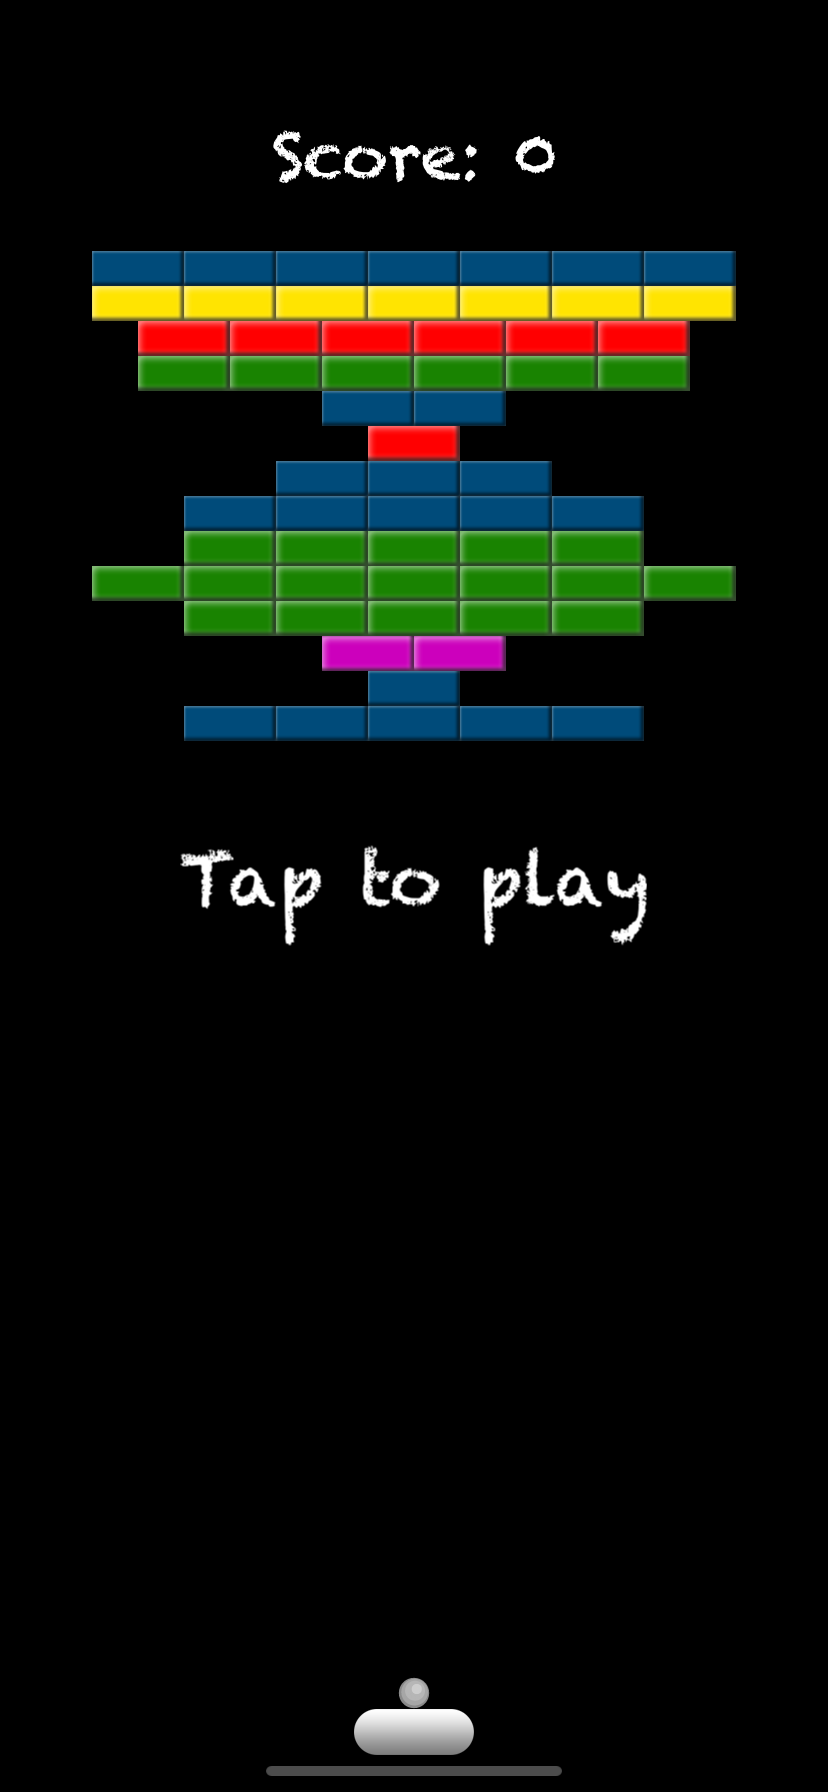
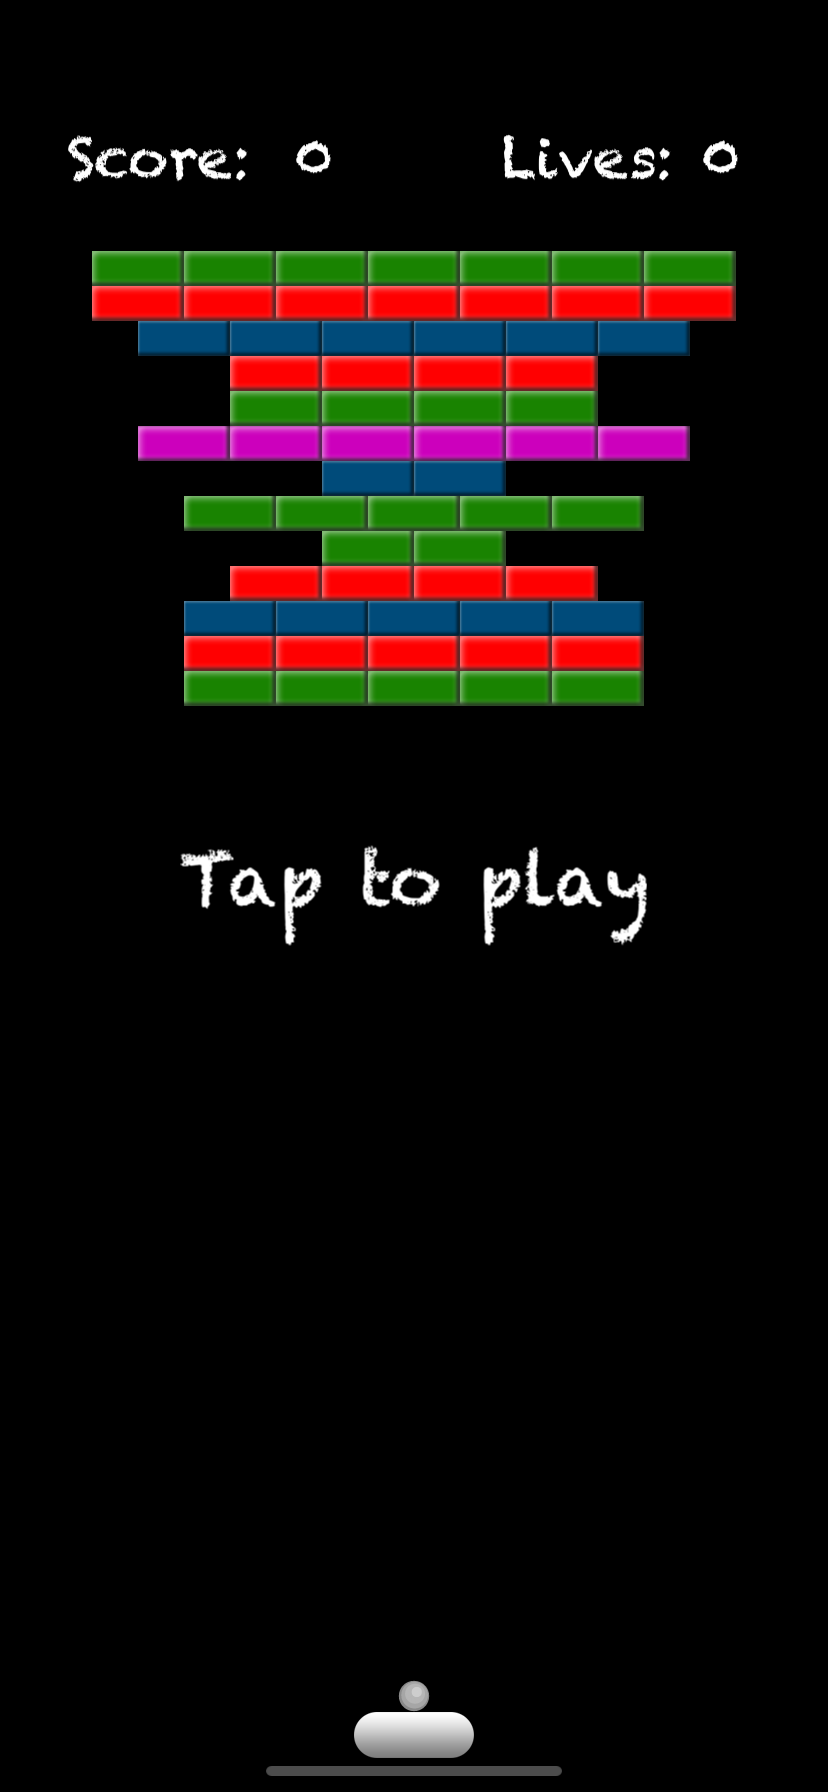
added 5 power ups added lives counter at the top

Changed region(s): [[0.0906, 0.0625, 0.9058, 0.4375], [0.8454, 0.0625, 0.9058, 0.0938], [0.4831, 0.9375, 0.5133, 0.9688]]

diff --git a/breakout/GameScene.swift b/breakout/GameScene.swift
@@ -11,22 +11,49 @@ import GameplayKit
 
 let BallCategoryName = "ball"
 let PaddleCategoryName = "paddle"
-let BlockCategoryName = "block"
+let BlockBlueCategoryName = "blockBlue"
+let BlockRedCategoryName = "blockRed"
+let BlockGreenCategoryName = "blockGreen"
+let BlockYellowCategoryName = "blockYellow"
+let BlockPurpleCategoryName = "blockPurple"
 let GameMessageName = "gameMessage"
 let ScoreLabelName = "scoreLabel"
+let PowerUpLName = "powerUpLength"
+let PowerDownLName = "powerDownLength"
+let PowerUpSName = "powerUpSpeed"
+let PowerDownSName = "powerDownSpeed"
+let PowerUpLifeName = "powerUpLife"
 
 let BallCategory   : UInt32 = 0x1 << 0
 let BottomCategory : UInt32 = 0x1 << 1
 let BlockCategory  : UInt32 = 0x1 << 2
 let PaddleCategory : UInt32 = 0x1 << 3
-let BorderCategory : UInt32 = 0x1 << 4
+let PowerUpCategory : UInt32 = 0x1 << 4
+let BorderCategory : UInt32 = 0x1 << 5
 
 class GameScene: SKScene, SKPhysicsContactDelegate {
+    let scoreText = SKLabelNode(fontNamed: "Chalkduster")
     let scoreLabel = SKLabelNode(fontNamed: "Chalkduster")
+    let livesLabel = SKLabelNode(fontNamed: "Chalkduster")
+    
+    var isInvul: Bool = false
+    var isInvulTime: TimeInterval = 0
+    
+    var lives: Int = 0 {
+        didSet {
+            livesLabel.text = "Lives: " + String(lives)
+        }
+    }
     
     var score: Int = 0 {
         didSet {
-            scoreLabel.text = "Score: " + String(score)
+            if score > 1000 {
+                scoreLabel.position = CGPoint(x: (frame.width / 4) * 2 - 30, y: frame.height * 0.9)
+                scoreLabel.text = String(score)
+            } else {
+                scoreLabel.position = CGPoint(x: (frame.width / 4) * 2 - 30, y: frame.height * 0.9)
+                scoreLabel.text = String(score)
+            }
         }
     }
     
@@ -43,6 +70,21 @@ class GameScene: SKScene, SKPhysicsContactDelegate {
         }
     }
     
+    func getColor() -> String {
+        let randomNumber = Int.random(in: 1...100)
+        if randomNumber <= 20 {
+            return "blockBlue"
+        } else if randomNumber >= 21 && randomNumber <= 40{
+            return "blockRed"
+        } else if randomNumber >= 41 && randomNumber <= 60{
+            return "blockGreen"
+        } else if randomNumber >= 61 && randomNumber <= 80 {
+            return "blockYellow"
+        } else {
+            return "blockPurple"
+        }
+    }
+    
     override func didMove(to view: SKView) {
         let borderBody = SKPhysicsBody(edgeLoopFrom: self.frame)
         borderBody.categoryBitMask = BorderCategory
@@ -52,22 +94,37 @@ class GameScene: SKScene, SKPhysicsContactDelegate {
         physicsWorld.gravity = CGVector(dx: 0.0, dy: 0.0)
         physicsWorld.contactDelegate = self
         
-        scoreLabel.text = "Score: " + String(score)
-        scoreLabel.position = CGPoint(x: frame.midX, y: 806)
+        scoreText.text = "Score: "
+        scoreText.fontSize = 28
+        scoreText.position = CGPoint(x: (frame.width / 4) - 25, y: frame.height * 0.9)
+        addChild(scoreText)
+        
+        scoreLabel.text = String(score)
+        scoreLabel.fontSize = 28
+        scoreLabel.position = CGPoint(x: (frame.width / 4) * 2 - 50, y: frame.height * 0.9)
         addChild(scoreLabel)
+        
+        livesLabel.text = "Lives: " + String(lives)
+        livesLabel.fontSize = 28
+        livesLabel.position = CGPoint(x: (frame.width / 4) * 3, y: frame.height * 0.9)
+        addChild(livesLabel)
         
         let ball = childNode(withName: BallCategoryName) as! SKSpriteNode
         ball.physicsBody!.categoryBitMask = BallCategory
         ball.physicsBody!.contactTestBitMask = BottomCategory | BlockCategory
+        ball.physicsBody!.collisionBitMask = 46
+        ball.physicsBody!.usesPreciseCollisionDetection = true
         
         let paddle = childNode(withName: PaddleCategoryName) as! SKSpriteNode
         paddle.physicsBody!.categoryBitMask = PaddleCategory
+        paddle.physicsBody!.contactTestBitMask = PowerUpCategory
         
         let bottomRect = CGRect(x: frame.origin.x, y: frame.origin.y, width: frame.size.width, height: 1)
         let bottom = SKNode()
         bottom.physicsBody = SKPhysicsBody(edgeLoopFrom: bottomRect)
-        addChild(bottom)
         bottom.physicsBody!.categoryBitMask = BottomCategory
+        bottom.physicsBody!.usesPreciseCollisionDetection = true
+        addChild(bottom)
         
         let numberOfRows = Int.random(in: 10...15)
         let blockWidth = SKSpriteNode(imageNamed: "blockBlue").size.width
@@ -86,7 +143,7 @@ class GameScene: SKScene, SKPhysicsContactDelegate {
                 block.physicsBody?.friction = 0.0
                 block.physicsBody?.affectedByGravity = false
                 block.physicsBody?.isDynamic = false
-                block.name = BlockCategoryName
+                block.name = color
                 block.physicsBody?.categoryBitMask = BlockCategory
                 block.zPosition = 2
                 addChild(block)
@@ -103,19 +160,11 @@ class GameScene: SKScene, SKPhysicsContactDelegate {
         gameState.enter(WaitingForTap.self)
     }
     
-    func getColor() -> String {
-        let randomNumber = Int.random(in: 1...100)
-        if randomNumber <= 20 {
-            return "blockBlue"
-        } else if randomNumber >= 21 && randomNumber <= 40{
-            return "blockRed"
-        } else if randomNumber >= 41 && randomNumber <= 60{
-            return "blockGreen"
-        } else if randomNumber >= 61 && randomNumber <= 80 {
-            return "blockYellow"
-        } else {
-            return "blockPurple"
-        }
+    func genPaddlePhysics(paddle: SKSpriteNode) {
+        paddle.physicsBody = SKPhysicsBody(rectangleOf: CGSize(width: paddle.size.width, height: paddle.size.height))
+        paddle.physicsBody!.isDynamic = false
+        paddle.physicsBody!.categoryBitMask = PaddleCategory
+        paddle.physicsBody!.contactTestBitMask = PowerUpCategory
     }
     
     func didBegin(_ contact: SKPhysicsContact) {
@@ -132,8 +181,15 @@ class GameScene: SKScene, SKPhysicsContactDelegate {
             }
             
             if firstBody.categoryBitMask == BallCategory && secondBody.categoryBitMask == BottomCategory {
-                gameState.enter(GameOver.self)
-                gameWon = false
+                if isInvul == false {
+                    if lives == 0 {
+                        gameState.enter(GameOver.self)
+                        gameWon = false
+                    } else {
+                        lives -= 1
+                        isInvul = true
+                    }
+                }
             }
             
             if firstBody.categoryBitMask == BallCategory && secondBody.categoryBitMask == BlockCategory {
@@ -143,11 +199,85 @@ class GameScene: SKScene, SKPhysicsContactDelegate {
                     gameWon = true
                 }
             }
+            
+            if firstBody.categoryBitMask == PaddleCategory && secondBody.categoryBitMask == PowerUpCategory {
+                if secondBody.node!.name == PowerUpLName {
+                    let paddle = childNode(withName: PaddleCategoryName) as! SKSpriteNode
+                    if paddle.size.width < frame.size.width * 0.4 {
+                        paddle.size.width = paddle.size.width * 1.25
+                        genPaddlePhysics(paddle: paddle)
+                    }
+                } else if secondBody.node!.name == PowerDownLName {
+                    let paddle = childNode(withName: PaddleCategoryName) as! SKSpriteNode
+                    if paddle.size.width > 40.0 {
+                        paddle.size.width = paddle.size.width * 0.75
+                        genPaddlePhysics(paddle: paddle)
+                    }
+                } else if secondBody.node!.name == PowerUpSName {
+                    let ball = childNode(withName: BallCategoryName) as! SKSpriteNode
+                    ball.physicsBody?.velocity = CGVector(dx: ball.physicsBody!.velocity.dx * 1.25, dy: ball.physicsBody!.velocity.dy * 1.25)
+                } else if secondBody.node!.name == PowerDownSName {
+                    let ball = childNode(withName: BallCategoryName) as! SKSpriteNode
+                    ball.physicsBody?.velocity = CGVector(dx: ball.physicsBody!.velocity.dx * 0.75, dy: ball.physicsBody!.velocity.dy * 0.75)
+                } else if secondBody.node!.name == PowerUpLifeName {
+                    lives += 1
+                }
+                breakObject(node: secondBody.node!)
+            }
+        }
+    }
+    
+    func choosePowerUp(number: Int, node: SKNode) {
+        switch number {
+        case 1...22:
+            generatePowerUp(node: node, imageName: "powerUpLength", name: PowerUpLName)
+        case 23...45:
+            generatePowerUp(node: node, imageName: "powerDownLength", name: PowerDownLName)
+        case 46...66:
+            generatePowerUp(node: node, imageName: "powerUpSpeed", name: PowerUpSName)
+        case 67...90:
+            generatePowerUp(node: node, imageName: "powerDownSpeed", name: PowerDownSName)
+        case 91...100:
+            generatePowerUp(node: node, imageName: "powerUpLife", name: PowerUpLifeName)
+        default:
+            break
+        }
+    }
+    
+    func generatePowerUp(node: SKNode, imageName: String, name: String) {
+        let powerUp = SKSpriteNode(imageNamed: imageName)
+        powerUp.scale(to: CGSize(width: powerUp.size.width * 1.35, height: powerUp.size.height * 1.35))
+        powerUp.name = name
+        powerUp.position = node.position
+        powerUp.zPosition = 3
+        powerUp.physicsBody = SKPhysicsBody(rectangleOf: CGSize(width: powerUp.size.width, height: powerUp.size.height))
+        powerUp.physicsBody?.allowsRotation = false
+        powerUp.physicsBody?.friction = 0.0
+        powerUp.physicsBody?.categoryBitMask = PowerUpCategory
+        powerUp.physicsBody?.collisionBitMask = 8
+        powerUp.physicsBody?.applyImpulse(CGVector(dx: 0.0, dy: -2.0))
+        powerUp.physicsBody?.velocity = CGVector(dx: 0.0, dy: -500.0)
+        addChild(powerUp)
+    }
+
+    func chance(percent: Int) -> Bool {
+        let random = Int.random(in: 0...100)
+        if random < percent {
+            return true
+        } else {
+            return false
         }
     }
     
     func breakBlock(node: SKNode) {
         score += 100
+        if chance(percent: 10) {
+            choosePowerUp(number: Int.random(in: 1...100), node: node)
+        }
+        node.removeFromParent()
+    }
+    
+    func breakObject(node: SKNode) {
         node.removeFromParent()
     }
     
@@ -158,9 +288,12 @@ class GameScene: SKScene, SKPhysicsContactDelegate {
     
     func isGameWon() -> Bool {
         var numberOfBricks = 0
-        self.enumerateChildNodes(withName: BlockCategoryName) {
-            node, stop in
-            numberOfBricks = numberOfBricks + 1
+        let listOfBlocks = [BlockBlueCategoryName, BlockRedCategoryName, BlockGreenCategoryName, BlockYellowCategoryName, BlockPurpleCategoryName]
+        for block in listOfBlocks {
+            self.enumerateChildNodes(withName: block) {
+                node, stop in
+                numberOfBricks = numberOfBricks + 1
+            }
         }
         return numberOfBricks == 0
     }
@@ -203,6 +336,13 @@ class GameScene: SKScene, SKPhysicsContactDelegate {
     }
     
     override func update(_ currentTime: TimeInterval) {
+        if isInvul == true {
+            isInvulTime += currentTime
+        }
+        if isInvulTime > 3 {
+            isInvul = false
+            isInvulTime = 0
+        }
         gameState.update(deltaTime: currentTime)
     }
 }

diff --git a/breakout/Playing.swift b/breakout/Playing.swift
@@ -26,24 +26,15 @@ class Playing: GKState {
 
     override func update(deltaTime seconds: TimeInterval) {
         let ball = scene.childNode(withName: BallCategoryName) as! SKSpriteNode
-        let maxSpeed: CGFloat = 400.0
         
         let xSpeed = sqrt(ball.physicsBody!.velocity.dx * ball.physicsBody!.velocity.dx)
         let ySpeed = sqrt(ball.physicsBody!.velocity.dy * ball.physicsBody!.velocity.dy)
-            
-        let speed = sqrt(ball.physicsBody!.velocity.dx * ball.physicsBody!.velocity.dx + ball.physicsBody!.velocity.dy * ball.physicsBody!.velocity.dy)
             
         if xSpeed <= 10.0 {
             ball.physicsBody!.applyImpulse(CGVector(dx: randomDirection(), dy: 0.0))
         }
         if ySpeed <= 10.0 {
             ball.physicsBody!.applyImpulse(CGVector(dx: 0.0, dy: randomDirection()))
-        }
-            
-        if speed > maxSpeed {
-            ball.physicsBody!.linearDamping = 0.4
-        } else {
-            ball.physicsBody!.linearDamping = 0.0
         }
     }
 
